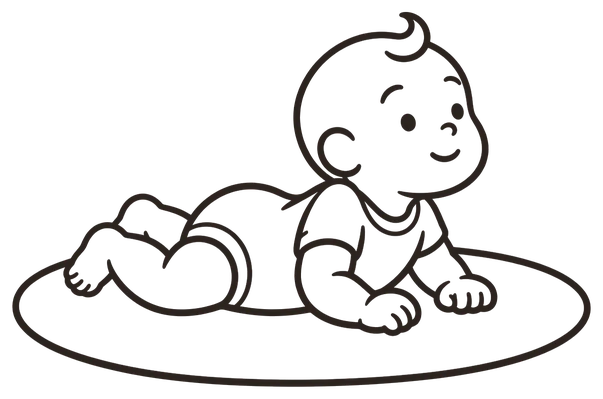
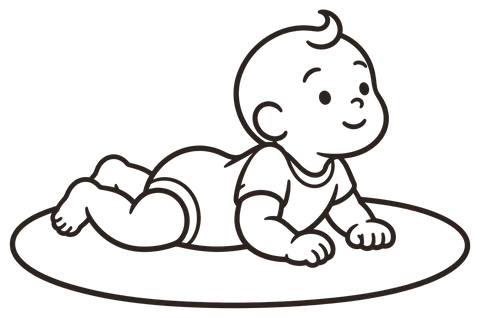
Reduz ilustrações @1x e tira capturas não usadas da pasta servida
Reexporta os seis desenhos @1x a partir dos @2x publicados (WebP q80, largura medida) e move web/public/telas para web/assets-fonte/telas, sem alterar o conteúdo.

diff --git a/web/public/ilustracoes/PROVENANCE.md b/web/public/ilustracoes/PROVENANCE.md
@@ -11,3 +11,18 @@ Generated by Codex CLI 0.167.0 built-in image_gen on Daniel's ChatGPT plan (no A
 | maos-celular@1x.webp, @2x.webp | brutos/I_traco_4.png sha256 96849560d68709413d46e31a17940ffa7f61cca36569284acdfb5a6b55aa3778 | Codex image_gen (ChatGPT plan) | 2026-11-11 09:15 | I_traco subject 4 |
 | baba-tapete@1x.webp, @2x.webp | brutos/I_traco_5.png sha256 fbf7e89d8e526c9e6bf4a2139ccdeb8d8d5de022901b5d13a9f98403e0cc1e6c | Codex image_gen (ChatGPT plan) | 2026-11-11 09:15 | I_traco subject 5 |
 | mae-noite@1x.webp, @2x.webp | brutos/I_traco_6.png sha256 b6cd0024affa120cf13c66c5b24aa5aa2b7740d3e444c3902cf772a7c4f8136e | Codex image_gen (ChatGPT plan) | 2026-11-11 09:15 | I_traco subject 6 |
+
+## Re-encoded @1x (17/11/2026, IMG-A, card t_0614af41)
+
+Source: the shipped `@2x.webp` of each drawing (unchanged). Recipe: Pillow LANCZOS resize of the @2x (RGBA) to the widths below, keeping the aspect ratio, saved as lossy WebP with quality 80, method 6, alpha_quality 90. Script `.oc/img_a/reexportar.py` (not committed).
+
+| file | width x height | bytes | sha256 |
+|---|---|---|---|
+| avo-carrinho@1x.webp | 200x351 | 26264 | d0d034bde1ae2f7814aafe1533966d532ae8316b8a32e0658aa5880c3edce8ab |
+| baba-tapete@1x.webp | 312x305 | 32726 | 97d8b93158a03d17d953d215dd78d66e3e1db31e9d9b61c9c44bbedffa450f3a |
+| mae-noite@1x.webp | 288x313 | 34122 | daf54de7ca36c9e53c0c37344a50bc0bdf889a193c3145691504a159bbc67fc7 |
+| maos-celular@1x.webp | 456x247 | 21742 | c1a7904ce368657161536178aeda497fd92a1461bdb1de6de43a1863ced60018 |
+| pai-colo@1x.webp | 120x375 | 17504 | de667898b092f5ed2c041afe24646c3b9be895d714a240a5dfdd5c369ccd17cd |
+| tummy-time@1x.webp | 480x318 | 28084 | 22e5abd99ca85efdf3f65c4966d530abe266988f9cf4a140c15c613bfe945b74 |
+
+Total of the six @1x: 160442 bytes.
